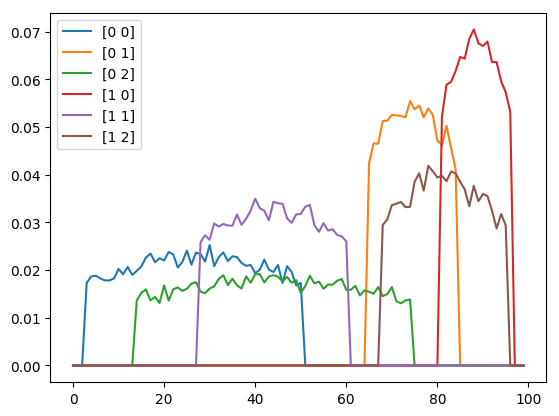
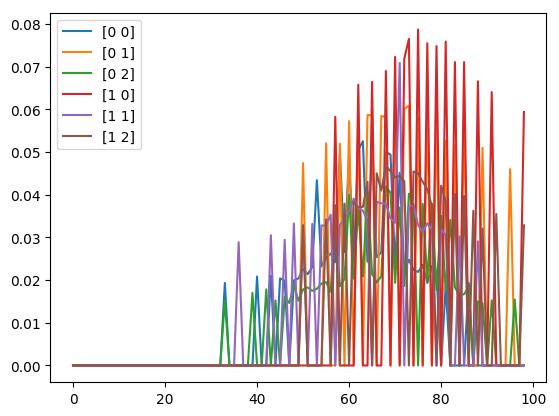
debugging fair score replacement

diff --git a/src/cfa/cfa.py b/src/cfa/cfa.py
@@ -18,8 +18,8 @@ class ContinuousFairnessAlgorithm():
 
     def __init__(self, rawData, groups, prot_attr, qual_attr, score_ranges, score_stepsize, thetas, regForOT, path='.', plot=False):
         """
-        @param rawData:          pandas dataframe with scores per group, groups do not necessarily have same
-                                 amount of scores, i.e. data might contain NaNs
+        @param rawData:          pandas dataframe with scores per group, groups are not necessarily
+                                 of the same size, i.e. data might contain NaNs
         @param groups:           all possible groups in data as dataframe. One row contains manifestations
                                  of protected attributes, hence represents a group
                                  example: [[white, male], [white, female], [hispanic, male], [hispanic, female]]
@@ -150,6 +150,9 @@ class ContinuousFairnessAlgorithm():
             norm_matrix = np.diag(inverse_norm_vec)
             normalized_ot_matrix = np.matmul(norm_matrix, ot_matrix)
 
+            # this contains a vector per group with len(score_values) entries (e.g. a score range from 1 to 100
+            # results into a group fair score vector of length 100
+
             groupFairScores[groupName] = np.matmul(normalized_ot_matrix, self.__score_values.T)
 
         if self.__plot:
@@ -158,34 +161,52 @@ class ContinuousFairnessAlgorithm():
         return groupFairScores
 
     def _replaceRawByFairScores(self, groupFairScores):
+        '''
+        TODO: write how raw scores are replaced by fair scores from groupFairScores matrix
+        '''
 
-        def replace(rawData, colName, groupName):
+        def buildGroupNameFromValues(dataRow):
+            name = "["
+            firstIter = True
+            for attr in self.__protectedAttributes:
+                if firstIter:
+                    name += str(dataRow.iloc[0][attr])
+                    firstIter = False
+                else:
+                    name += " " + str(dataRow.iloc[0][attr])
+            name += "]"
+            return name
+
+        def replace(rawData, colName):
             rawScores = rawData[colName]
+            groupName = buildGroupNameFromValues(rawData.head(1))
             replaced = rawData.copy()
             fairScores = groupFairScores[groupName]
             for index, fairScore in fairScores.iteritems():
                 range_left = self.__bin_edges[index]
                 range_right = self.__bin_edges[index + 1]
-                replaceAtIndex = rawScores.between(range_left, range_right)
+                replaceAtIndex = (rawScores > range_left) & (rawScores <= range_right)
                 replaced.at[replaceAtIndex, colName] = fairScore
                 # TODO: fair scores stehen nicht an der richtigen Stelle, d.h. für Gruppe 00 stehen die
                 # fair scores in den vorderen Indexen, aber die Scores fangen erst höher an
             return replaced
 
-        for groupName in groupFairScores.columns:
-            self.__fairData = self.__rawData.copy()
-            self.__fairData = self.__fairData.groupby(list(self.__protectedAttributes), as_index=False,
-                                                    sort=False).apply(replace,
-                                                                      colName=self.__qualityAtribute,
-                                                                      groupName=groupName)
+        self.__fairData = self.__rawData.copy()
+        self.__fairData = self.__fairData.groupby(list(self.__protectedAttributes),
+                                                  as_index=False,
+                                                  sort=False).apply(replace,
+                                                                    colName=self.__qualityAtribute)
+        self.__fairData = self.__fairData.reset_index(drop=True)
 
         if self.__plot:
-            fairDataPerGroup = self.__getScoresByGroup(self.__fairData, self.__groups, self.__qualityAtribute)
-#             fairDataPerGroup.plot.kde()
-#             plt.savefig(self.__plotPath + 'fairScoreDistributionPerGroup.png', dpi=100, bbox_inches='tight')
-#             bin_edges = np.linspace(groupFairScores.min().min(), groupFairScores.max().max(), int(self.__num_bins))
-            self.__getDataAsHistograms(fairDataPerGroup, self.__fairDataAsHistograms, self.__bin_edges)
+            fairDataPerGroup = self._getScoresByGroup(self.__fairData)
+            fairDataPerGroup.plot.kde()
+            plt.savefig(self.__plotPath + 'fairScoreDistributionPerGroup.png', dpi=100, bbox_inches='tight')
+            bin_edges = np.linspace(groupFairScores.min().min(), groupFairScores.max().max(), int(self.__num_bins))
+            self._getDataAsHistograms(fairDataPerGroup, self.__fairDataAsHistograms, bin_edges)
             self.__plott(self.__fairDataAsHistograms, 'fairScoresAsHistograms.png')
+
+        return self.__fairData
 
     def __plott(self, dataframe, filename):
         dataframe.plot(kind='line', use_index=False)
@@ -197,14 +218,14 @@ class ContinuousFairnessAlgorithm():
         and they have to be represented somehow as integers, otherwise the algorithm doesn't work
         """
 
-        self.__getDataAsHistograms(self.__rawDataByGroup, self.__rawDataPerGroupAsHistograms, self.__bin_edges)
+        self._getDataAsHistograms(self.__rawDataByGroup, self.__rawDataPerGroupAsHistograms, self.__bin_edges)
         print(self.__rawDataPerGroupAsHistograms.idxmax())
         if self.__plot:
             self.__plott(self.__rawDataPerGroupAsHistograms, 'rawScoresAsHistograms.png')
 
-        total_bary = self.__getTotalBarycenter()
-        group_barycenters = self.__get_group_barycenters(total_bary)
+        total_bary = self._getTotalBarycenter()
+        group_barycenters = self._get_group_barycenters(total_bary)
 
-        fairScoreReplacementStrategy = self.__calculateFairReplacementStrategy(group_barycenters)
-        self.__replaceRawByFairScores(fairScoreReplacementStrategy)
+        fairScoreReplacementStrategy = self._calculateFairReplacementStrategy(group_barycenters)
+        self._replaceRawByFairScores(fairScoreReplacementStrategy)
 

diff --git a/test/cfa/Test_cfa.py b/test/cfa/Test_cfa.py
@@ -60,9 +60,34 @@ class TestContinuousFairnessAlgorithm(unittest.TestCase):
         expected = pd.DataFrame(expectedData, columns=["[0 0]", "[0 1]", "[1 0]", "[1 1]"])
         actual = cfa_object._getScoresByGroup(self.smallRawData)
         pd.testing.assert_frame_equal(expected, actual)
-        
-        
-    def test__replaceRawByFairScores(self):
+
+    def test_replaceRawByFairScores_VeryDifferentScores(self):
+        groupFairScoresData = np.array([[12, 13, 14, 15, 16, 17, 18, 19],
+                                        [22, 23, 24, 25, 26, 27, 28, 29],
+                                        [32, 33, 34, 35, 36, 37, 38, 39],
+                                        [42, 43, 44, 45, 46, 47, 48, 49]], dtype=object)
+        groupFairScores = pd.DataFrame(groupFairScoresData.T, columns=["[0 0]", "[0 1]", "[1 0]", "[1 1]"])
+
+        cfa_object = cfa.ContinuousFairnessAlgorithm(self.smallRawData,
+                                                     self.groups,
+                                                     self.protectedAttributes,
+                                                     self.qualityAttribute,
+                                                     self.scoreRanges,
+                                                     self.scoreStepsize,
+                                                     [1, 1, 1, 1],
+                                                     self.regForOT)
+
+        expectedData = np.array([[int(0), int(0), int(19), ""],
+                                 [int(0), int(0), int(18), ""],
+                                 [int(0), int(1), int(27), ""],
+                                 [int(0), int(1), int(26), ""],
+                                 [int(1), int(0), int(35), ""],
+                                 [int(1), int(0), int(34), ""],
+                                 [int(1), int(1), int(43), ""],
+                                 [int(1), int(1), int(42), ""]], dtype=object)
+        expected = pd.DataFrame(expectedData, columns=["gender", "ethnicity", "score", "uuid"])
+        actual = cfa_object._replaceRawByFairScores(groupFairScores)
+        pd.testing.assert_frame_equal(expected, actual)
 
 
 if __name__ == "__main__":
